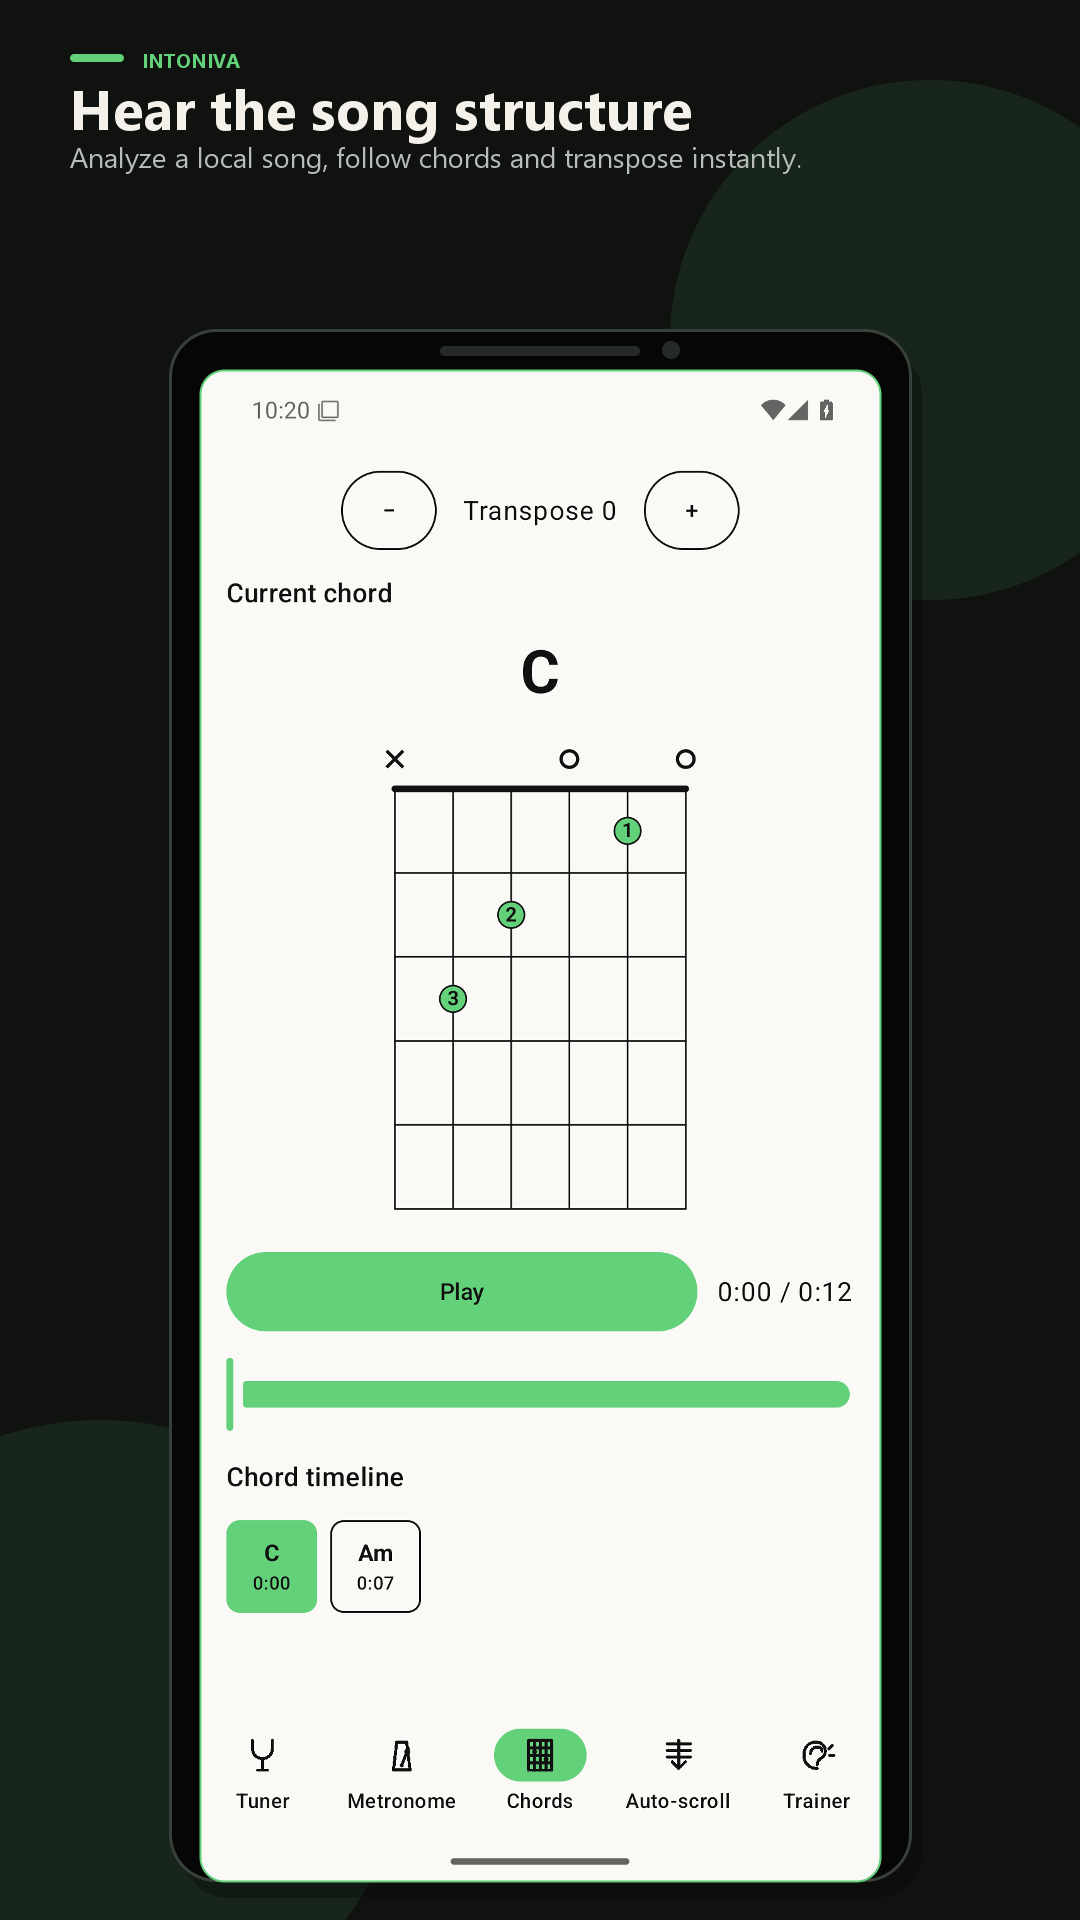
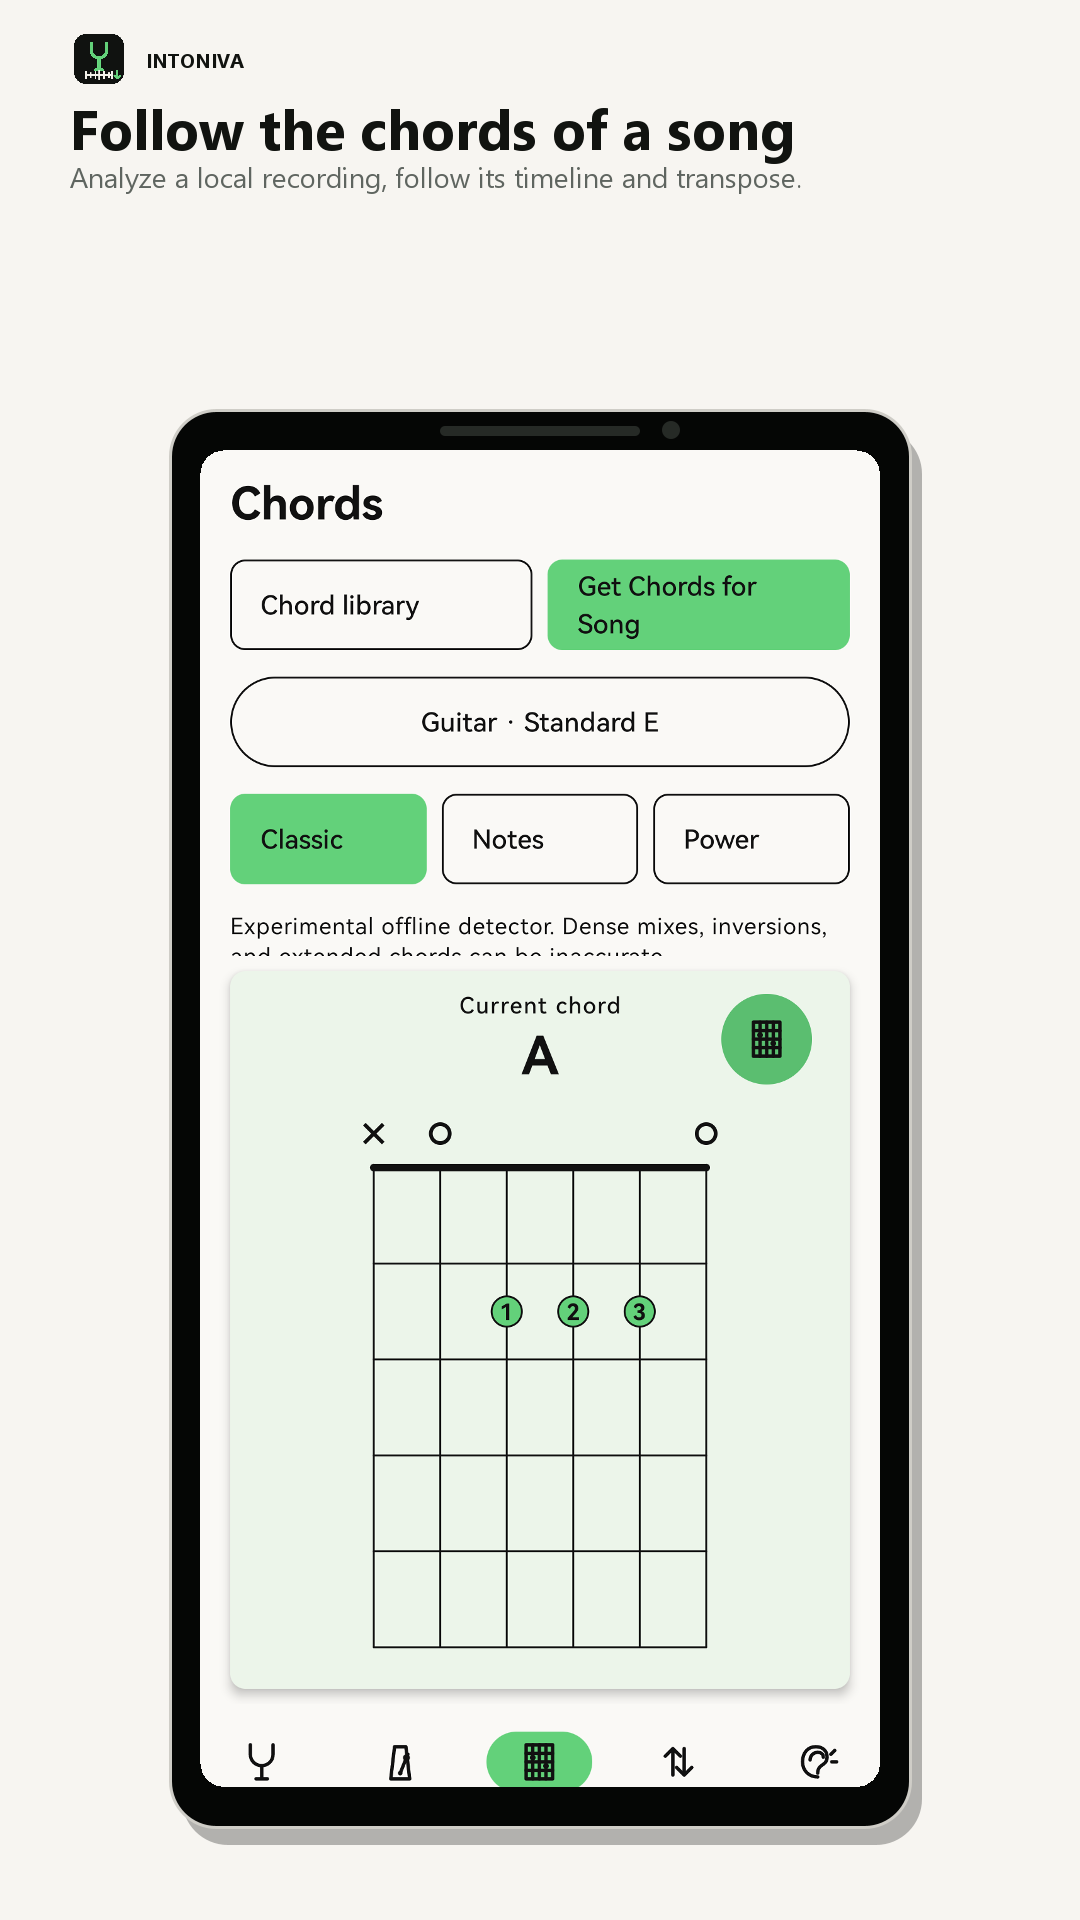
docs(store): refresh localized screenshots

diff --git a/tools/RenderStoreScreenshots.java b/tools/RenderStoreScreenshots.java
@@ -6,7 +6,6 @@ import java.awt.FontMetrics;
 import java.awt.Graphics2D;
 import java.awt.RenderingHints;
 import java.awt.Shape;
-import java.awt.geom.Ellipse2D;
 import java.awt.geom.RoundRectangle2D;
 import java.awt.image.BufferedImage;
 import java.io.IOException;
@@ -20,36 +19,48 @@ public final class RenderStoreScreenshots {
     private static final int WIDTH = 1080;
     private static final int HEIGHT = 1920;
     private static final int PHONE_X = 170;
-    private static final int PHONE_Y = 330;
+    private static final int PHONE_Y = 410;
     private static final int PHONE_WIDTH = 740;
-    private static final int PHONE_HEIGHT = 1550;
     private static final int SCREEN_X = 200;
-    private static final int SCREEN_Y = 370;
+    private static final int SCREEN_Y = 450;
     private static final int SCREEN_WIDTH = 680;
-    private static final Color BACKGROUND = new Color(0x10, 0x12, 0x10);
-    private static final Color GREEN = new Color(0x63, 0xD1, 0x7A);
-    private static final Color TEXT = new Color(0xF4, 0xF1, 0xEA);
-    private static final Color SECONDARY = new Color(0xB9, 0xBD, 0xB9);
+    private static final int SYSTEM_BAR_HEIGHT = 108;
+    private static final Color BACKGROUND = new Color(0xF7, 0xF5, 0xF1);
+    private static final Color TEXT = new Color(0x11, 0x13, 0x10);
+    private static final Color SECONDARY = new Color(0x5F, 0x65, 0x60);
     private static final Path CAPTURE_DIR = Path.of(".reference", "tmp", "store-captures");
     private static final Path OUTPUT_DIR = Path.of(".reference", "tmp", "store-rendered");
+    private static final Path ICON_PATH = Path.of("docs", "assets", "icon.png");
 
     private static final Slide[] SLIDES = {
-        new Slide("01-tuner.png", "1_tuner.png", "Tune with confidence",
-            "Universal and unplugged-electric profiles keep quiet notes stable."),
-        new Slide("02-chromatic.png", "2_chromatic.png", "Every note. Every instrument.",
-            "Chromatic mode and adjustable A4 reference keep any setup precise."),
-        new Slide("03-tunings.png", "3_tunings.png", "Your tunings, ready",
-            "Search 38 presets, save favorites and build custom tunings offline."),
-        new Slide("04-metronome.png", "4_metronome.png", "Stay perfectly in time",
-            "A clean mechanical metronome from 20 to 400 BPM."),
-        new Slide("05-chords.png", "5_chords.png", "Playable chords, offline",
-            "Canonical guitar and ukulele shapes with clear fingering."),
-        new Slide("06-song-chords.png", "6_song_chords.png", "Hear the song structure",
-            "Analyze a local song, follow chords and transpose instantly."),
-        new Slide("07-trainer.png", "7_trainer.png", "Train your musical ear",
-            "Hear a note, choose the answer and track progress locally."),
-        new Slide("08-auto-scroll.png", "8_auto_scroll.png", "Scroll without your hands",
-            "Floating Start, Stop and speed controls work across Android."),
+        new Slide("1_tuner.png", "Tune with confidence",
+            "Quiet-note profiles keep acoustic and unplugged electric guitars stable.",
+            "La\u010fte bez dohad\u016f", "Citliv\u00e9 profily udr\u017e\u00ed i tich\u00e9 t\u00f3ny stabiln\u00ed."),
+        new Slide("2_chromatic.png", "Every note. Every instrument.",
+            "Chromatic mode and adjustable A4 reference keep any setup precise.",
+            "Ka\u017ed\u00fd t\u00f3n. Ka\u017ed\u00fd n\u00e1stroj.",
+            "Chromatick\u00fd re\u017eim a vlastn\u00ed A4 pro p\u0159esn\u00e9 lad\u011bn\u00ed."),
+        new Slide("3_tunings.png", "Your tunings, ready",
+            "Search 38 presets, save favorites and build custom tunings offline.",
+            "Va\u0161e lad\u011bn\u00ed po ruce",
+            "Hledejte v 38 lad\u011bn\u00edch, ukl\u00e1dejte obl\u00edben\u00e1 a tvo\u0159te vlastn\u00ed."),
+        new Slide("4_metronome.png", "Stay perfectly in time",
+            "A clean mechanical metronome from 20 to 400 BPM.",
+            "Dr\u017ete p\u0159esn\u00e9 tempo", "\u010cist\u00fd mechanick\u00fd metronom od 20 do 400 BPM."),
+        new Slide("5_chords.png", "Playable chords, offline",
+            "Reviewed guitar and ukulele shapes with clear fingering.",
+            "Hrateln\u00e9 akordy offline", "Ov\u011b\u0159en\u00e9 hmaty pro kytaru a ukulele."),
+        new Slide("6_song_chords.png", "Follow the chords of a song",
+            "Analyze a local recording, follow its timeline and transpose.",
+            "Sledujte akordy skladby",
+            "Analyzujte m\u00edstn\u00ed soubor, sledujte \u010dasovou osu a transponujte."),
+        new Slide("7_trainer.png", "Train your musical ear",
+            "Recognize notes and chords while progress stays on your phone.",
+            "Tr\u00e9nujte hudebn\u00ed sluch",
+            "Pozn\u00e1vejte t\u00f3ny a akordy, v\u00fdsledky z\u016fst\u00e1vaj\u00ed v telefonu."),
+        new Slide("8_auto_scroll.png", "Scroll without your hands",
+            "Floating Start, Stop and speed controls work across Android.",
+            "Rolujte bez rukou", "Plovouc\u00ed Start, Stop a rychlost funguj\u00ed nap\u0159\u00ed\u010d Androidem."),
     };
 
     private RenderStoreScreenshots() {}
@@ -58,37 +69,43 @@ public final class RenderStoreScreenshots {
         if (args.length != 0) {
             throw new IllegalArgumentException("Usage: java tools/RenderStoreScreenshots.java");
         }
-        Files.createDirectories(OUTPUT_DIR);
-        List<BufferedImage> rendered = new ArrayList<>();
-        for (Slide slide : SLIDES) {
-            BufferedImage capture = ImageIO.read(CAPTURE_DIR.resolve(slide.capture()).toFile());
-            if (capture == null || capture.getWidth() != 1080 || capture.getHeight() < 2200) {
-                throw new IOException("Invalid emulator capture: " + slide.capture());
-            }
-            BufferedImage image = render(slide, capture);
-            Path output = OUTPUT_DIR.resolve(slide.output());
-            if (!ImageIO.write(image, "png", output.toFile())) {
-                throw new IOException("PNG writer is unavailable");
-            }
-            BufferedImage verified = ImageIO.read(output.toFile());
-            if (verified == null || verified.getWidth() != WIDTH || verified.getHeight() != HEIGHT) {
-                throw new IOException("Generated screenshot verification failed: " + output);
-            }
-            rendered.add(image);
-            System.out.println(output.toAbsolutePath());
+        BufferedImage icon = ImageIO.read(ICON_PATH.toFile());
+        if (icon == null || icon.getWidth() != 512 || icon.getHeight() != 512) {
+            throw new IOException("Invalid store icon: " + ICON_PATH);
         }
-        writeContactSheet(rendered);
+        for (StoreLocale locale : StoreLocale.values()) {
+            Path localeDir = OUTPUT_DIR.resolve(locale.id);
+            Files.createDirectories(localeDir);
+            List<BufferedImage> rendered = new ArrayList<>();
+            for (Slide slide : SLIDES) {
+                BufferedImage capture = ImageIO.read(CAPTURE_DIR.resolve(slide.output()).toFile());
+                if (capture == null || capture.getWidth() != 1080 || capture.getHeight() < 2200) {
+                    throw new IOException("Invalid device capture: " + slide.output());
+                }
+                BufferedImage image = render(slide, capture, icon, locale);
+                Path output = localeDir.resolve(slide.output());
+                if (!ImageIO.write(image, "png", output.toFile())) {
+                    throw new IOException("PNG writer is unavailable");
+                }
+                BufferedImage verified = ImageIO.read(output.toFile());
+                if (verified == null || verified.getWidth() != WIDTH || verified.getHeight() != HEIGHT) {
+                    throw new IOException("Generated screenshot verification failed: " + output);
+                }
+                rendered.add(image);
+                System.out.println(output.toAbsolutePath());
+            }
+            writeContactSheet(rendered, localeDir);
+        }
     }
 
-    private static BufferedImage render(Slide slide, BufferedImage capture) {
+    private static BufferedImage render(Slide slide, BufferedImage capture, BufferedImage icon, StoreLocale locale) {
         BufferedImage image = new BufferedImage(WIDTH, HEIGHT, BufferedImage.TYPE_INT_RGB);
         Graphics2D graphics = image.createGraphics();
         try {
             configure(graphics);
             graphics.setColor(BACKGROUND);
             graphics.fillRect(0, 0, WIDTH, HEIGHT);
-            drawBackground(graphics);
-            drawCopy(graphics, slide);
+            drawCopy(graphics, slide, icon, locale);
             drawPhone(graphics, capture);
         } finally {
             graphics.dispose();
@@ -103,55 +120,57 @@ public final class RenderStoreScreenshots {
         graphics.setRenderingHint(RenderingHints.KEY_RENDERING, RenderingHints.VALUE_RENDER_QUALITY);
     }
 
-    private static void drawBackground(Graphics2D graphics) {
-        graphics.setComposite(AlphaComposite.SrcOver.derive(0.10f));
-        graphics.setColor(GREEN);
-        graphics.fill(new Ellipse2D.Double(670, 80, 520, 520));
-        graphics.fill(new Ellipse2D.Double(-210, 1420, 620, 620));
-        graphics.setComposite(AlphaComposite.SrcOver);
-        graphics.setColor(GREEN);
-        graphics.fillRoundRect(70, 54, 54, 8, 8, 8);
-    }
-
-    private static void drawCopy(Graphics2D graphics, Slide slide) {
+    private static void drawCopy(Graphics2D graphics, Slide slide, BufferedImage icon, StoreLocale locale) {
+        graphics.drawImage(icon, 70, 30, 58, 58, null);
         graphics.setFont(new Font("Segoe UI", Font.BOLD, 20));
-        graphics.setColor(GREEN);
-        graphics.drawString("INTONIVA", 142, 68);
+        graphics.setColor(TEXT);
+        graphics.drawString("INTONIVA", 146, 68);
 
         graphics.setFont(new Font("Segoe UI", Font.BOLD, 56));
         graphics.setColor(TEXT);
-        int headlineBottom = drawWrapped(graphics, slide.headline(), 70, 130, 940, 64, 2);
+        int headlineBottom = drawWrapped(graphics, slide.headline(locale), 70, 150, 940, 64, 2);
 
         graphics.setFont(new Font("Segoe UI", Font.PLAIN, 28));
         graphics.setColor(SECONDARY);
-        drawWrapped(graphics, slide.subline(), 70, headlineBottom + 38, 940, 38, 2);
+        drawWrapped(graphics, slide.subline(locale), 70, headlineBottom + 38, 940, 38, 2);
     }
 
     private static void drawPhone(Graphics2D graphics, BufferedImage capture) {
+        int sourceBottom = capture.getHeight() - SYSTEM_BAR_HEIGHT;
+        int sourceHeight = sourceBottom - SYSTEM_BAR_HEIGHT;
+        int screenHeight = (int) Math.round(sourceHeight * (SCREEN_WIDTH / (double) capture.getWidth()));
+        int phoneHeight = screenHeight + 80;
         graphics.setComposite(AlphaComposite.SrcOver.derive(0.28f));
         graphics.setColor(Color.BLACK);
         graphics.fill(new RoundRectangle2D.Double(
-            PHONE_X + 12, PHONE_Y + 18, PHONE_WIDTH, PHONE_HEIGHT, 92, 92
+            PHONE_X + 12, PHONE_Y + 18, PHONE_WIDTH, phoneHeight, 92, 92
         ));
         graphics.setComposite(AlphaComposite.SrcOver);
         graphics.setColor(new Color(0x05, 0x06, 0x05));
-        graphics.fill(new RoundRectangle2D.Double(PHONE_X, PHONE_Y, PHONE_WIDTH, PHONE_HEIGHT, 92, 92));
+        graphics.fill(new RoundRectangle2D.Double(PHONE_X, PHONE_Y, PHONE_WIDTH, phoneHeight, 92, 92));
         graphics.setStroke(new BasicStroke(3f));
-        graphics.setColor(new Color(0x38, 0x40, 0x3A));
-        graphics.draw(new RoundRectangle2D.Double(PHONE_X, PHONE_Y, PHONE_WIDTH, PHONE_HEIGHT, 92, 92));
+        graphics.setColor(new Color(0xCF, 0xCD, 0xC7));
+        graphics.draw(new RoundRectangle2D.Double(PHONE_X, PHONE_Y, PHONE_WIDTH, phoneHeight, 92, 92));
 
-        int screenHeight = (int) Math.round(capture.getHeight() * (SCREEN_WIDTH / (double) capture.getWidth()));
         Shape oldClip = graphics.getClip();
         graphics.clip(new RoundRectangle2D.Double(SCREEN_X, SCREEN_Y, SCREEN_WIDTH, screenHeight, 48, 48));
-        graphics.drawImage(capture, SCREEN_X, SCREEN_Y, SCREEN_WIDTH, screenHeight, null);
+        graphics.drawImage(
+            capture,
+            SCREEN_X,
+            SCREEN_Y,
+            SCREEN_X + SCREEN_WIDTH,
+            SCREEN_Y + screenHeight,
+            0,
+            SYSTEM_BAR_HEIGHT,
+            capture.getWidth(),
+            sourceBottom,
+            null
+        );
         graphics.setClip(oldClip);
 
         graphics.setColor(new Color(0x26, 0x2A, 0x26));
-        graphics.fillRoundRect(440, 346, 200, 10, 10, 10);
-        graphics.fillOval(662, 341, 18, 18);
-        graphics.setStroke(new BasicStroke(2f));
-        graphics.setColor(GREEN);
-        graphics.draw(new RoundRectangle2D.Double(SCREEN_X, SCREEN_Y, SCREEN_WIDTH, screenHeight, 48, 48));
+        graphics.fillRoundRect(440, PHONE_Y + 16, 200, 10, 10, 10);
+        graphics.fillOval(662, PHONE_Y + 11, 18, 18);
     }
 
     private static int drawWrapped(
@@ -187,7 +206,7 @@ public final class RenderStoreScreenshots {
         return baseline - lineHeight;
     }
 
-    private static void writeContactSheet(List<BufferedImage> images) throws IOException {
+    private static void writeContactSheet(List<BufferedImage> images, Path outputDir) throws IOException {
         BufferedImage sheet = new BufferedImage(1080, 960, BufferedImage.TYPE_INT_RGB);
         Graphics2D graphics = sheet.createGraphics();
         try {
@@ -200,8 +219,33 @@ public final class RenderStoreScreenshots {
         } finally {
             graphics.dispose();
         }
-        ImageIO.write(sheet, "png", OUTPUT_DIR.resolve("contact-sheet.png").toFile());
+        ImageIO.write(sheet, "png", outputDir.resolve("contact-sheet.png").toFile());
     }
 
-    private record Slide(String capture, String output, String headline, String subline) {}
+    private enum StoreLocale {
+        ENGLISH("en-US"),
+        CZECH("cs-CZ");
+
+        private final String id;
+
+        StoreLocale(String id) {
+            this.id = id;
+        }
+    }
+
+    private record Slide(
+        String output,
+        String headlineEnglish,
+        String sublineEnglish,
+        String headlineCzech,
+        String sublineCzech
+    ) {
+        String headline(StoreLocale locale) {
+            return locale == StoreLocale.CZECH ? headlineCzech : headlineEnglish;
+        }
+
+        String subline(StoreLocale locale) {
+            return locale == StoreLocale.CZECH ? sublineCzech : sublineEnglish;
+        }
+    }
 }

diff --git a/README.md b/README.md
@@ -188,8 +188,9 @@ and [security policy](SECURITY.md).
 - Play icon: `fastlane/metadata/android/en-US/images/icon.png`
 - Regenerate the Play icon with `java tools/RenderStoreIcon.java` from the
   repository root.
-- Capture the eight verified emulator screens, then regenerate framed Play
-  artwork with `java tools/RenderStoreScreenshots.java`.
+- Capture eight verified 1080×2340 device screens, then generate English and
+  Czech 1080×1920 framed Play artwork with
+  `java tools/RenderStoreScreenshots.java`.
 - English/Czech listings: `docs/store/`
 - Privacy policies: `docs/privacy/`
 - Public website: `https://majkey25.github.io/TuneItAll/`
